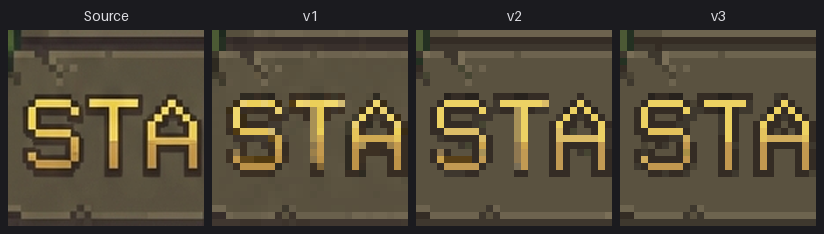
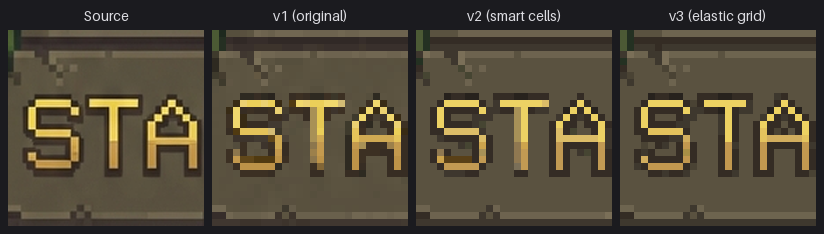
README: label the closeups and describe the elastic grid

Changed region(s): [[0.7888, 0.0299, 0.9405, 0.0897], [0.5461, 0.0299, 0.6978, 0.0897], [0.3337, 0.0299, 0.4248, 0.0897]]

diff --git a/README.md b/README.md
@@ -40,9 +40,12 @@ settings, then cropped on whole output pixels and enlarged without smoothing.
 - **v1** is the original engine.
 - **v2** finds the pixel grid with a lattice detector, rebuilds each cell's colors with
   Smart cells (including deblur), and infers the palette.
-- **v3** adds the elastic grid and keeps small, distinct colors in busy scenes.
+- **v3** adds the elastic grid: cell edges bend to follow lines drawn slightly off the
+  pixel grid, which saves thin outlines, lettering and small ornaments. It also keeps
+  small, distinct colors in busy scenes. If an image looks distorted, turn off
+  **Elastic grid** in the GUI or pass `--no-elastic`.
 
-Thin outlines: v3 follows lines drawn slightly off the pixel grid.
+Thin outlines: the elastic grid keeps the scarab's one-pixel legs and outline.
 
 ![Scarab closeup: source, v1, v2, v3](screenshots/compare_scarab.png)
 
